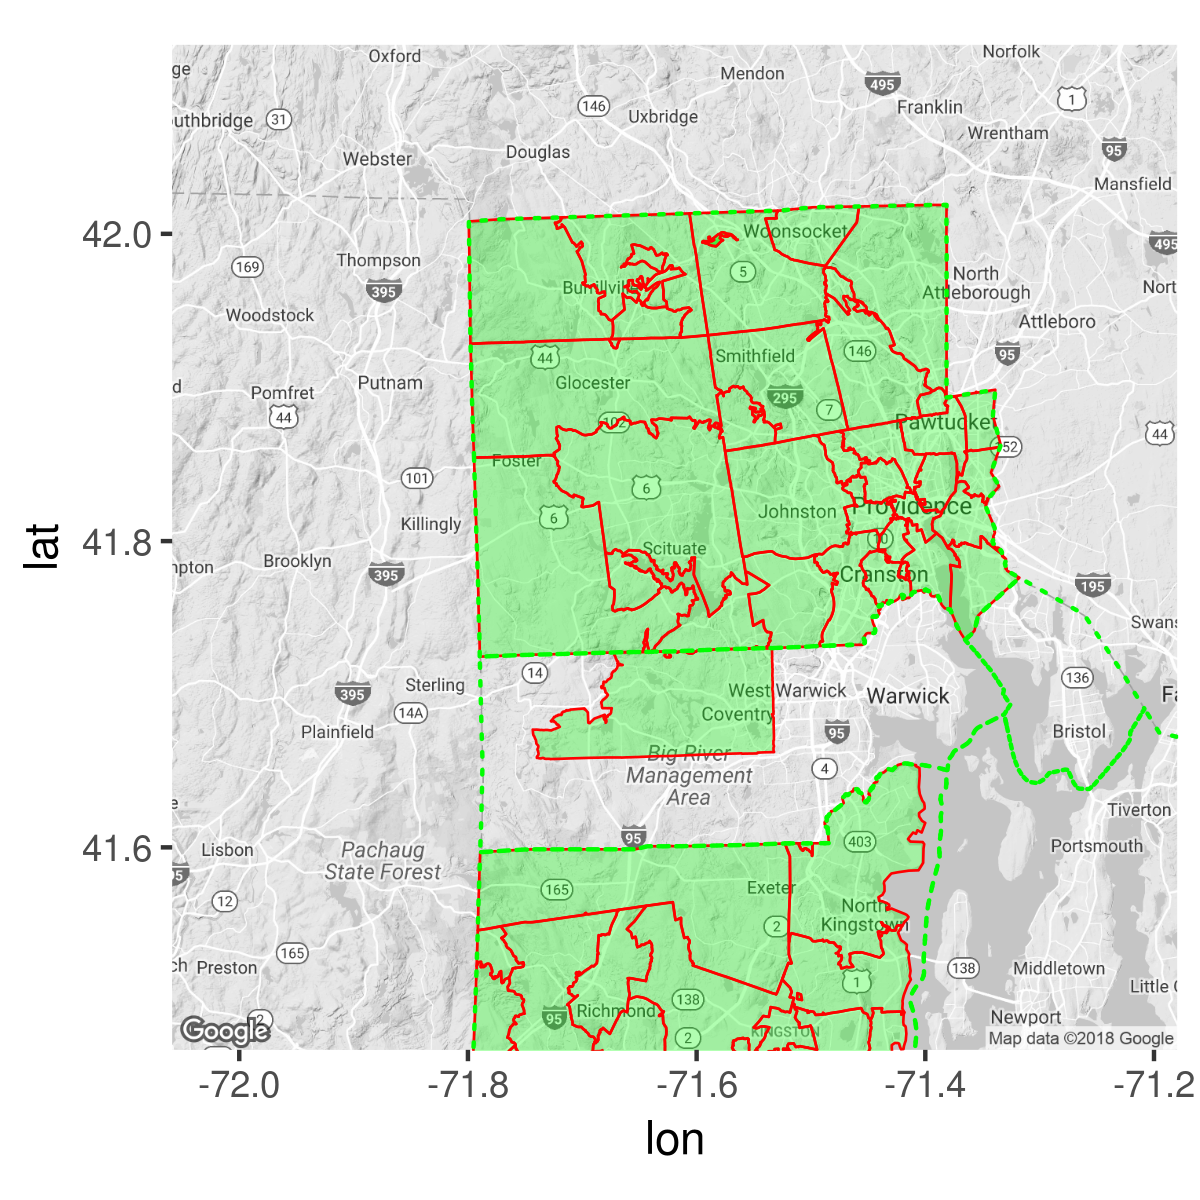
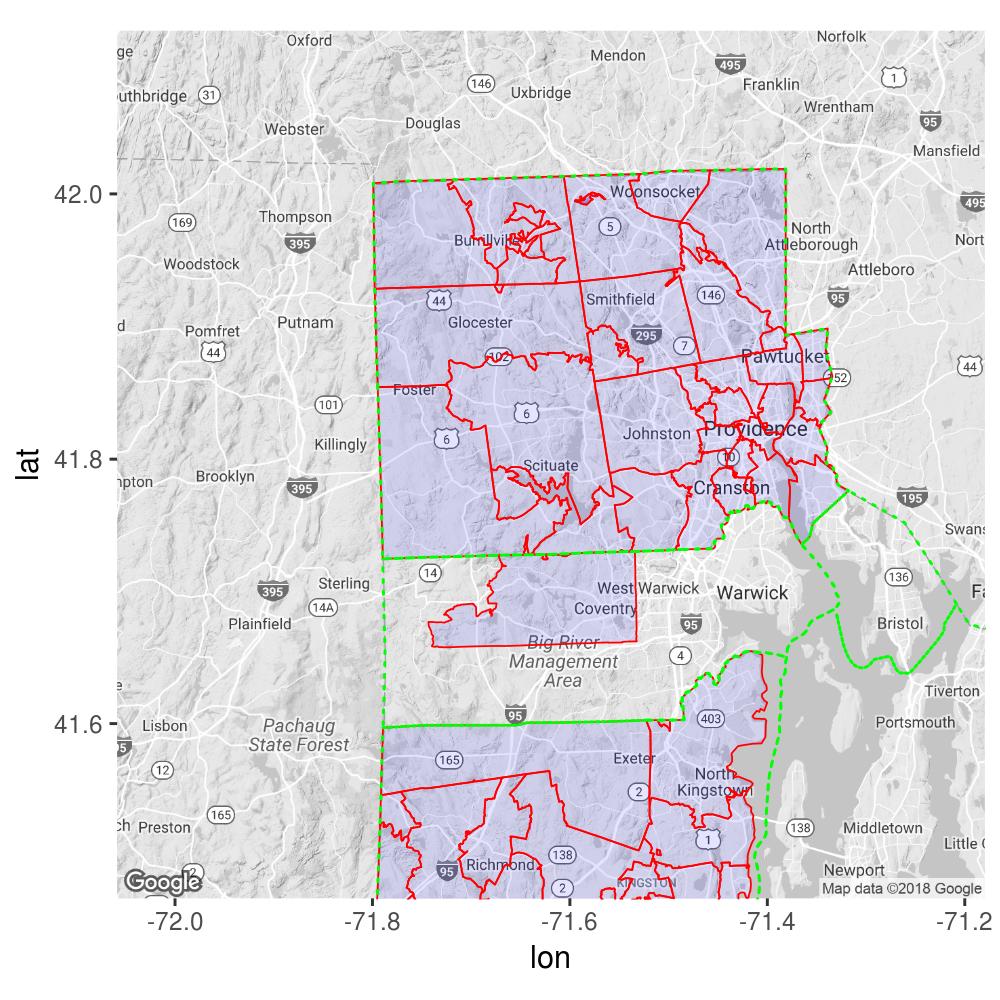
auto AK and HI from map

diff --git a/README.md b/README.md
@@ -55,7 +55,7 @@ ggmap(ri) +
     # all ZCTAs in or partially in two counties in Rhode Island
     geom_boundary("zip code", state = "RI", 
                   county = c("providence", "washington"),
-                  fill = "green", alpha = 0.3, color = "red", size = 0.3) +
+                  fill = "blue", alpha = 0.1, color = "red", size = 0.3) +
     # all county boundaries in RI. 
     geom_boundary("county", state = "RI", fill = NA, color = "green", 
                   size = 0.5, linetype = "dotted")
